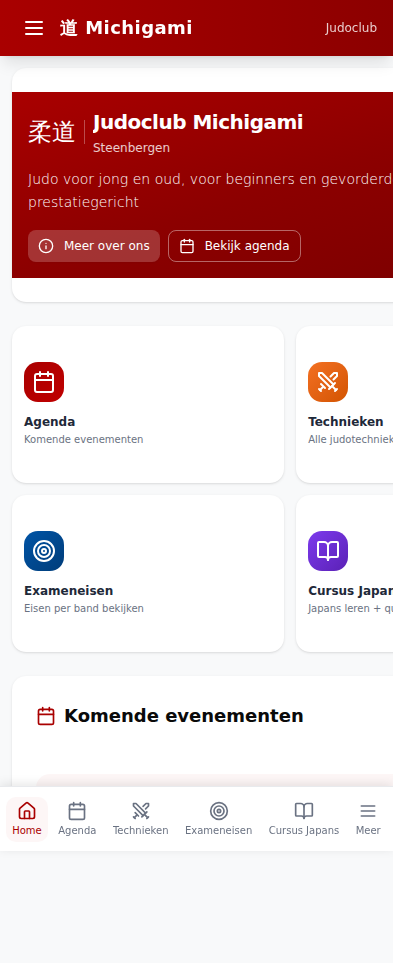
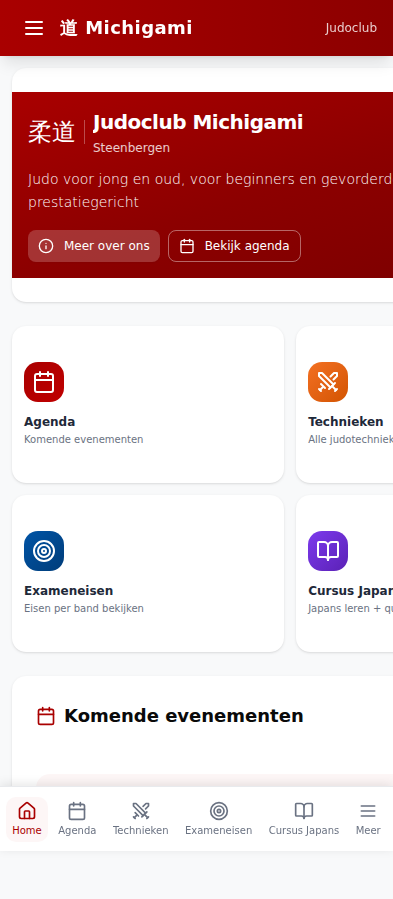
Fix: Aggressive mobile padding reduction voor grid cards

diff --git a/src/app/page.tsx b/src/app/page.tsx
@@ -121,7 +121,7 @@ export default function MichigamiApp() {
       {/* Main Content */}
       <main className="flex-1 md:ml-64 mt-14 md:mt-0 pb-28 sm:pb-20 md:pb-0 w-full min-w-0 max-w-full">
         <ScrollArea className="h-[calc(100vh-7.5rem)] sm:h-[calc(100vh-3.5rem)] md:h-screen w-full">
-          <div className="p-3 sm:p-4 md:p-8 max-w-4xl sm:max-w-5xl md:max-w-6xl mx-auto w-full pb-16 sm:pb-0">
+          <div className="p-2 sm:p-3 md:p-8 max-w-full sm:max-w-4xl md:max-w-6xl mx-auto w-full pb-16 sm:pb-0">
             {activeSection === 'home' && <HomeSection onNavigate={setActiveSection} />}
             {activeSection === 'agenda' && <AgendaSection />}
             {activeSection === 'technieken' && <TechniquesSection />}
@@ -253,7 +253,7 @@ function HomeSection({ onNavigate }: { onNavigate: (s: Section) => void }) {
       </Card>
 
       {/* Quick Links Grid */}
-      <div className="grid grid-cols-2 gap-2 sm:gap-3">
+      <div className="grid grid-cols-2 gap-1.5 sm:gap-3">
         {[
           { key: 'agenda' as Section, label: 'Agenda', desc: 'Komende evenementen', icon: <Calendar className="w-5 h-5 sm:w-6 sm:h-6" />, color: 'from-[#a90000] to-[#c00000]' },
           { key: 'technieken' as Section, label: 'Technieken', desc: 'Alle judotechnieken', icon: <Swords className="w-5 h-5 sm:w-6 sm:h-6" />, color: 'from-[#f37021] to-[#d35400]' },
@@ -261,7 +261,7 @@ function HomeSection({ onNavigate }: { onNavigate: (s: Section) => void }) {
           { key: 'cursusjapans' as Section, label: 'Cursus Japans', desc: 'Japans leren + quiz', icon: <BookOpen className="w-5 h-5 sm:w-6 sm:h-6" />, color: 'from-[#7c3aed] to-[#5b21b6]' },
         ].map((item) => (
           <Card key={item.key} className="cursor-pointer hover:shadow-lg transition-all border-0 overflow-hidden group" onClick={() => onNavigate(item.key)}>
-            <CardContent className="p-2.5 sm:p-3 md:p-4">
+            <CardContent className="p-2 sm:p-3 md:p-4">
               <div className={`w-8 h-8 sm:w-10 sm:h-10 md:w-12 md:h-12 rounded-lg sm:rounded-xl bg-gradient-to-br ${item.color} text-white flex items-center justify-center mb-2 sm:mb-3 group-hover:scale-110 transition-transform`}>
                 {item.icon}
               </div>
